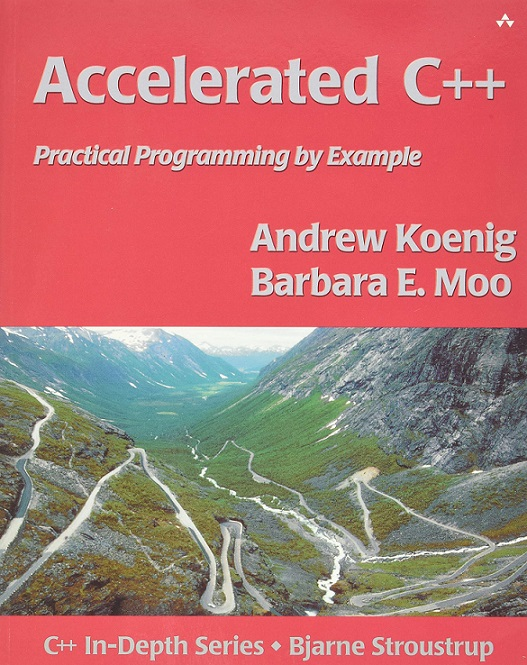
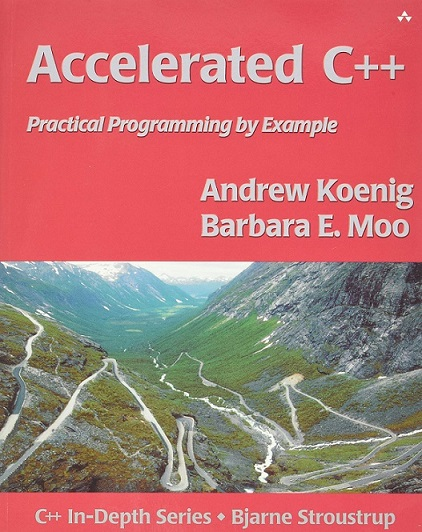
Resize book cover

diff --git a/README.md b/README.md
@@ -1,5 +1,5 @@
-#  1. Overview
-This content of this repository is based on the book _Accelerated C++: Practical Programming by Example_ by Andrew Koenig and Barbara E. Moo. It mainly consists of:
+#  1. Overview
+The content of this repository is based on the book **Accelerated C++: Practical Programming by Example** by Andrew Koenig and Barbara E. Moo. It mainly consists of:
 * the source code for example problems discussed in each chapter
 * solutions to the exercise problems posed at the end of each chapter
 
@@ -12,14 +12,13 @@ The original book can be found in the link below.
 * This is not intended to be an authoritative source. To my knowledge, there is no official solution guide to check against, so these are just my solutions and are therefore prone to errors and inaccuracies. Use at your own discretion.
 
 * The tools used in this project:
-	* g++ 11.2.0
-	* CMake 3.24.2
-	* Visual Studio Code 1.70.2
+    * g++ 11.2.0
+    * CMake 3.24.2
+    * Visual Studio Code 1.70.2
 
 # Table of Content
 
 ### Chapter 05
-./Exercises#q4-1-we-noted-in-42365-that-it-is-essential-that-the-argument-types-in-a-call-to-max-match-exactly-will-the-following-code-work-if-there-is-a-problem-how-would-you-fix-it
 | Exercises | 5-1 | 5-2 | 5-3 | 5-4 | 5-5 | 5-6 | 5-7 | 5-8 | 5-9 | 5-10 |
 |-----------|-----|-----|-----|-----|-----|-----|-----|-----|-----|------|
-| Link | [link](/Chapter%2005/Exercises#q5-1-design-and-implement-a-program-to-produce-a-permuted-index)  |  [q02-1](/Chapter%2005/Exercises/q02-1.cpp) | [q03](/Chapter%2005/Exercises/q03.cpp) | [link](/Chapter%2005/Exercises#q4-4-look-again-at-the-driver-functions-you-wrote-in-the-previous-exercise-note-that-it-is-possible-to-write-a-driver-that-differs-only-in-the-declaration-of-the-type-for-the-data-structure-that-holds-the-input-file-if-your-vector-and-list-test-drivers-differ-in-any-other-way-rewrite-them-so-that-they-differ-only-in-this-declaration) | [q05](/Chapter%2005/Exercises/q05.cpp) | [q06](/Chapter%2005/Exercises/q06.cpp) | [q07](/Chapter%2005/Exercises/q07.cpp) | [q08](/Chapter%2005/Exercises/q08.cpp) | [q09](/Chapter%2005/Exercises/q09.cpp) | [q10](/Chapter%2005/Exercises/q10.cpp) |
+| Link | [link](/Chapter%2005/Exercises#q5-1-design-and-implement-a-program-to-produce-a-permuted-index)  |  [q02-1](/Chapter%2005/Exercises/q02-1.cpp), [q02-2](/Chapter%2005/Exercises/q02-1.cpp) | [q03](/Chapter%2005/Exercises/q03.cpp) | [link](/Chapter%2005/Exercises#q4-4-look-again-at-the-driver-functions-you-wrote-in-the-previous-exercise-note-that-it-is-possible-to-write-a-driver-that-differs-only-in-the-declaration-of-the-type-for-the-data-structure-that-holds-the-input-file-if-your-vector-and-list-test-drivers-differ-in-any-other-way-rewrite-them-so-that-they-differ-only-in-this-declaration) | [q05](/Chapter%2005/Exercises/q05.cpp) | [q06](/Chapter%2005/Exercises/q06.cpp) | [q07](/Chapter%2005/Exercises/q07.cpp) | [q08](/Chapter%2005/Exercises/q08.cpp) | [q09](/Chapter%2005/Exercises/q09.cpp) | [q10](/Chapter%2005/Exercises/q10.cpp) |
